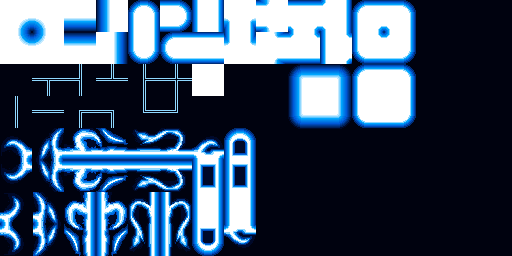
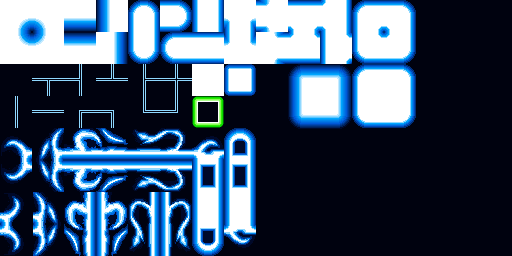
Needs a switch

Changed region(s): [[0.4375, 0.25, 0.5, 0.375], [0.375, 0.375, 0.4375, 0.5]]

diff --git a/GGJam/src/com/band/ggjam/Emitter.java b/GGJam/src/com/band/ggjam/Emitter.java
@@ -16,10 +16,10 @@ public class Emitter extends Entity {
 		frame += 2;
 		if(frame >= Laser.LASER_FRAMES) frame = 0;
 		if(shotDelay++ > SHOT_TIMER) {
-			if(currentLevel.canMove(this, x + getWidth(), y, 0, 0)) currentLevel.add(new Laser(x, y, currentLevel, Laser.LASER_SPEED, 0, frame), true);
-			if(currentLevel.canMove(this, x - getWidth(), y, 0, 0)) currentLevel.add(new Laser(x, y, currentLevel, -Laser.LASER_SPEED, 0, frame), true);
-			if(currentLevel.canMove(this, x, y - getHeight(), 0, 0)) currentLevel.add(new Laser(x, y, currentLevel, 0, -Laser.LASER_SPEED, frame), true);
-			if(currentLevel.canMove(this, x, y + getHeight() + 10, 0, 0)) currentLevel.add(new Laser(x, y, currentLevel, 0, Laser.LASER_SPEED, frame), true);
+			if(currentLevel.canMove(this, x + getWidth()*3/2, y + getHeight()/2, 0, 0)) currentLevel.add(new Laser(x, y, currentLevel, Laser.LASER_SPEED, 0, frame), true);
+			if(currentLevel.canMove(this, x - getWidth()/2, y + getHeight()/2, 0, 0)) currentLevel.add(new Laser(x, y, currentLevel, -Laser.LASER_SPEED, 0, frame), true);
+			if(currentLevel.canMove(this, x + getWidth()/2, y - getHeight() / 2, 0, 0)) currentLevel.add(new Laser(x, y, currentLevel, 0, -Laser.LASER_SPEED, frame), true);
+			if(currentLevel.canMove(this, x + getWidth()/2, y + getHeight() * 3/2, 0, 0)) currentLevel.add(new Laser(x, y, currentLevel, 0, Laser.LASER_SPEED, frame), true);
 			shotDelay = 0;
 //			currentLevel.add(new Laser(x, y, currentLevel, Laser.LASER_SPEED, Laser.LASER_SPEED, frame), true);
 //			currentLevel.add(new Laser(x, y, currentLevel, -Laser.LASER_SPEED, -Laser.LASER_SPEED, frame), true);

diff --git a/GGJam/src/com/band/ggjam/InGameState.java b/GGJam/src/com/band/ggjam/InGameState.java
@@ -19,7 +19,7 @@ public class InGameState extends GameState {
 	private String levelName;
 	
 	public InGameState() {	
-		levelName = "level1";
+		levelName = "level4";
 		
 		camera = new OrthographicCamera(GGJam.GAME_WIDTH, GGJam.GAME_HEIGHT);
 		spriteBatch = new SpriteBatch(100);
